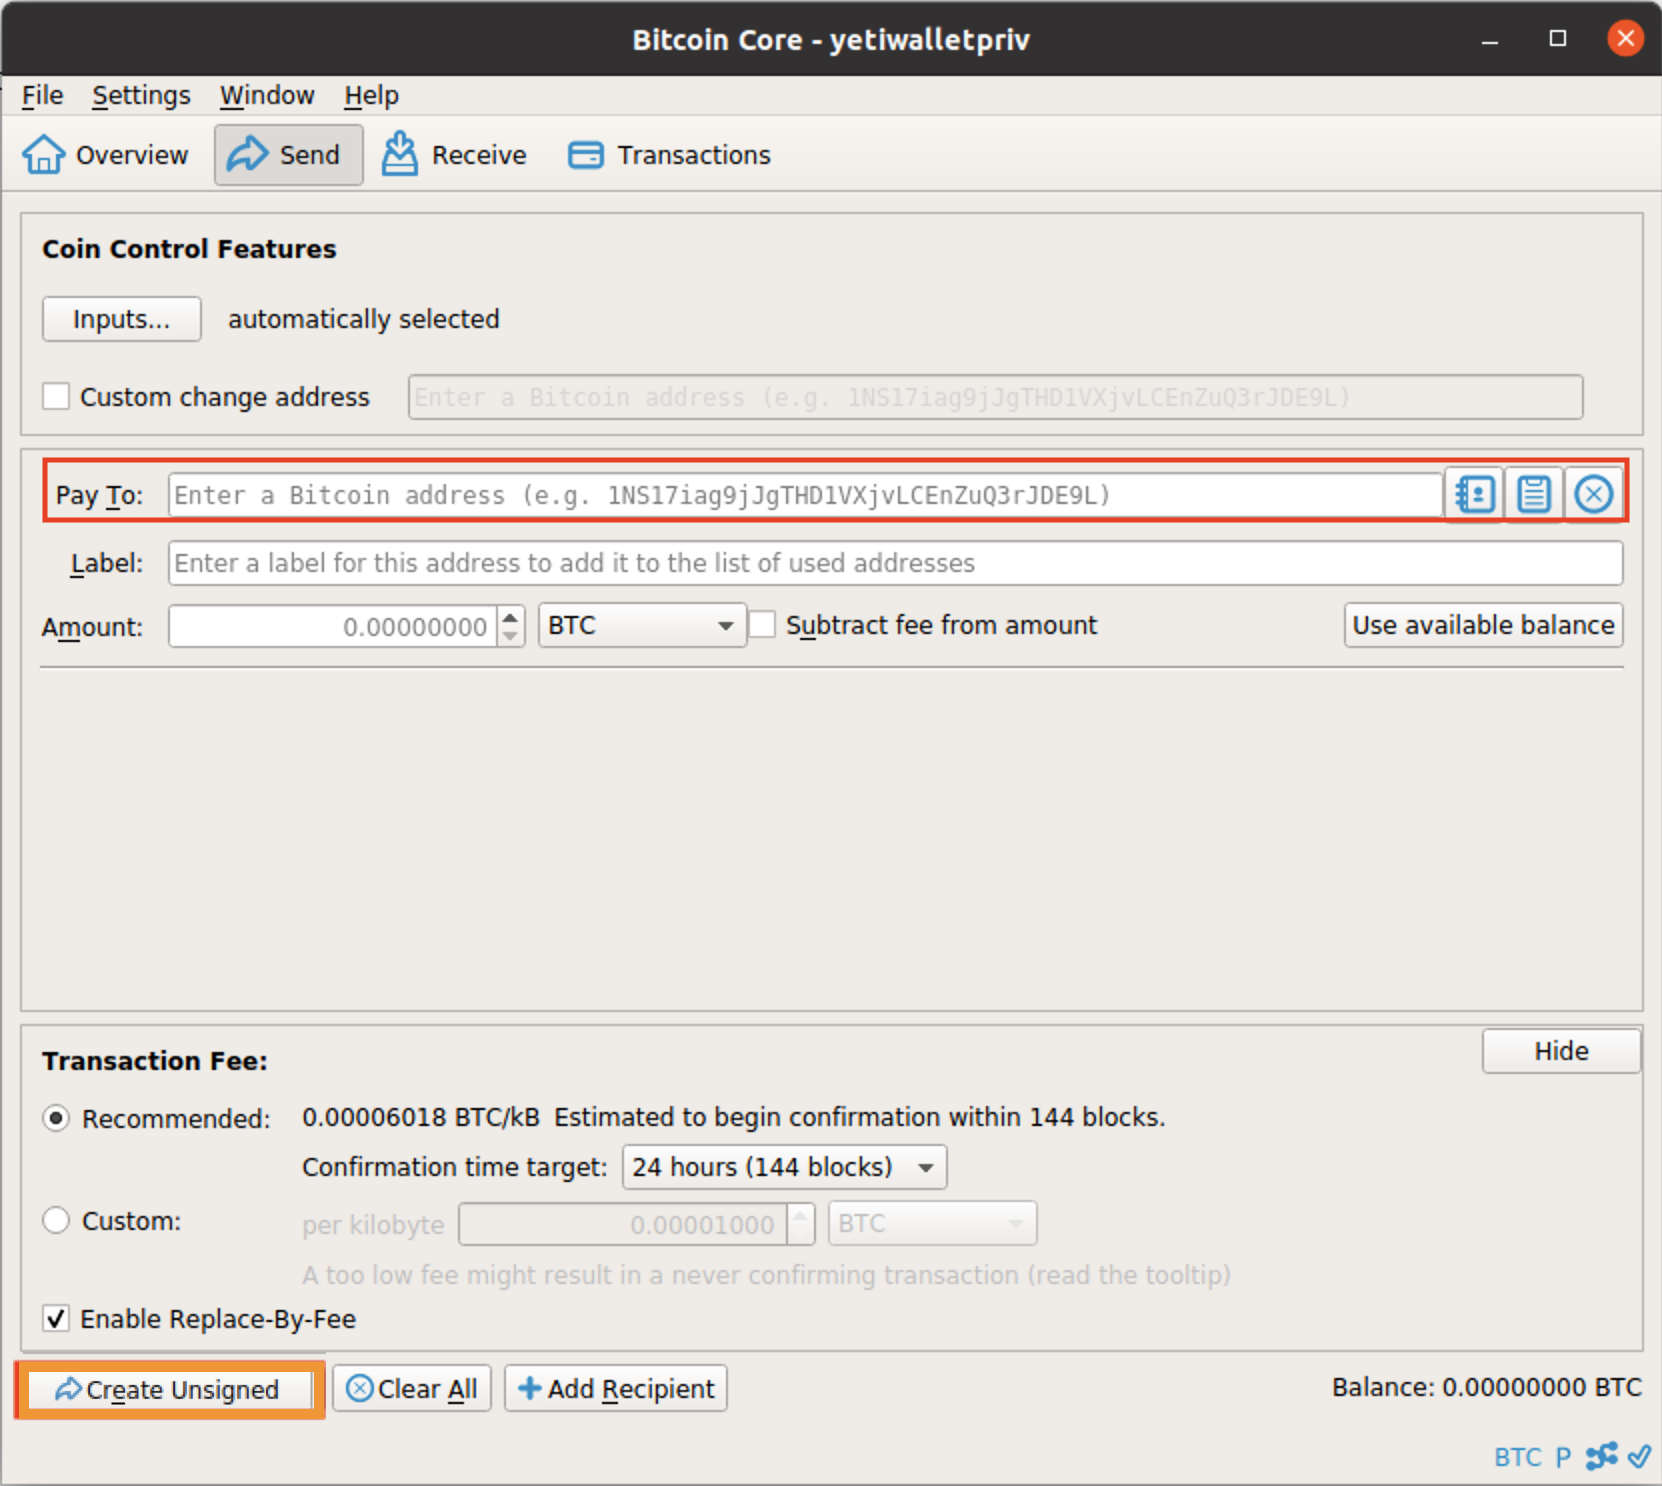
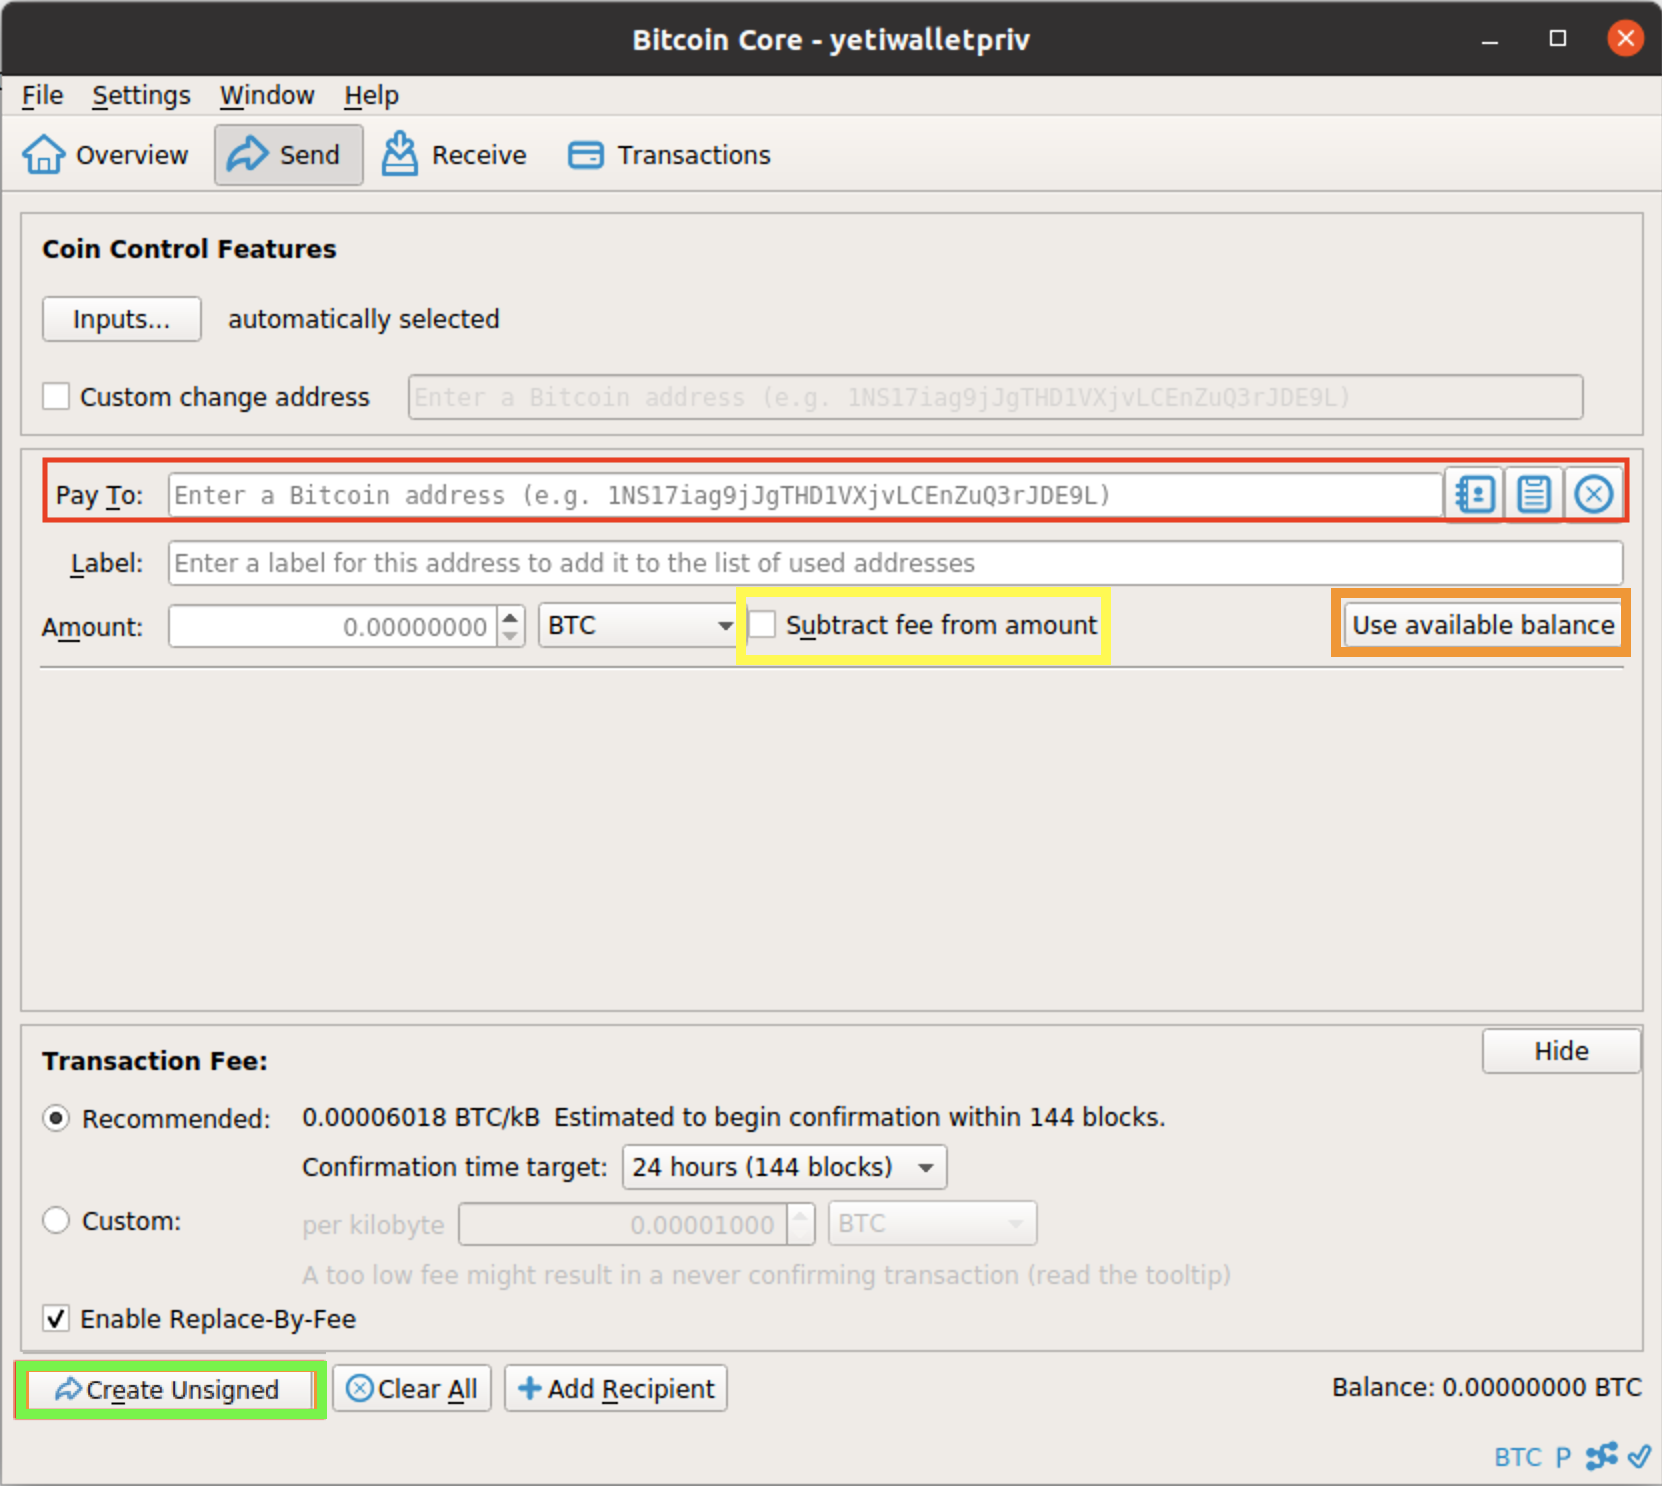
added buttons to yeti guide

Changed region(s): [[0.4296, 0.3715, 0.6751, 0.4643], [0.7978, 0.3715, 0.9819, 0.4643], [0.0, 0.8977, 0.2148, 0.9596]]

diff --git a/src/components/Overview.vue b/src/components/Overview.vue
@@ -6,6 +6,7 @@
     </nav>
     <div class="container" style="margin-top: 3rem;">
       <h2></h2>
+      <p>Yeti has recived over $50,000 in donations.</p>
       <div class="hero-unit">
           <h1>Yeti Level 3 Wallet</h1>
           <p>Level 3 is recommended for more than $50,000 USD worth of Bitcoin. It is a 3 of 7 HD Multisig setup where private keys are never on an Internet connected device.</p>
@@ -29,7 +30,10 @@
       </div>
       <!-- <a style="margin-top:30px;margin-bottom:30px;color:#585858;text-decoration: underline;" href="" v-on:click="Utils">Yeti Utilities</a> -->
       <p></p>
+      <p style="color:light-gray;">To verify this webpage click<a href="https://github.com/JWWeatherman/yeticold">here</a></p>
       <p style="color:light-gray;">For more information and the source code click <a href="https://github.com/JWWeatherman/yeticold">here</a> for the GitHub Repo.</p>
+      <p style="color:light-gray;">For the README click <a href="https://github.com/JWWeatherman/yeticold/blob/master/README.md">here</a></p>
+      <p style="color:light-gray;">For the FAQ click <a href="https://github.com/JWWeatherman/yeticold/blob/master/FAQ.md">here</a></p>
     </div>
   </div>
 </template>

diff --git a/src/components/YWTest2.vue b/src/components/YWTest2.vue
@@ -6,7 +6,7 @@
        <p>Restore your wallet with two sets of CDs to make sure you can recover your wallet with any three.</p>
        <ol>
             <li>Set aside the three seed CDs labeled "Seed 1," "Seed 2," and "Seed 3."</li>
-            <li>Restart Yeti on you <b>Primary</b> by clicking on the <b>nine dots</b> in the bottom left corner and click the <b>Level Three</b> icon.</li>
+            <li>Restart Yeti on you Laptop by clicking on the <b>nine dots</b> in the bottom left corner and click the <b>Level Two</b> icon.</li>
             <li>Click <b>Recover Wallet</b> and follow all the steps until you have tested sending and receiving a small amount of bitcoin using these seeds. Be sure that when it asks you to import your seeds use the three CDs you set aside.</li>
             <li>After you have sent and received a small amount, but <b>before you erase your laptop</b>, repeat steps 2 through 4 with the CDs labeled "Seed 4," "Seed 5", and "Seed 6."</li>
             <li>When you have finished testing your restored wallet click <b>Next</b> to continue.</li>

diff --git a/src/components/CWG.vue b/src/components/CWG.vue
@@ -71,8 +71,8 @@
       </div>
       <div class="card my-5" style="width: 50%;">
         <div class="card-body">
-          <h3>Step 7: Enter the Address and Amount</h3> 
-          <p class="card-text">Paste the recipients address in the <b>Pay To</b> text box, then click <b>Create Unsigned</b>.</p>
+          <h3>Step 7: Create the Transaction</h3> 
+          <p class="card-text">Paste the recipients address in the <b>Pay To</b> text box, then click <b>Use avaliable balance</b>, and check <b>Subtract fee from amount</b>, then click <b>Create Unsigned</b>.</p>
         </div>
         <img class="card-img-top" src="@/assets/CC6.png" alt="Card image cap">
       </div>

diff --git a/src/components/WWG.vue b/src/components/WWG.vue
@@ -68,8 +68,8 @@
       </div>
       <div class="card mb-3" style="width: 50%;">
         <div class="card-body">
-          <h3>Step 7: Enter the recipients address</h3> 
-          <p class="card-text">Paste in your recipient address into the <b>Pay To</b> text box, Then click <b>Send</b>.</p>
+          <h3>Step 7: Create the Transaction</h3> 
+          <p class="card-text">Paste the recipients address in the <b>Pay To</b> text box, then click <b>Use avaliable balance</b>, and check <b>Subtract fee from amount</b>, then click <b>Create Unsigned</b>.</p>
         </div>
         <img class="card-img-top" src="@/assets/WarmSend1.png" alt="Card image cap">
       </div>
